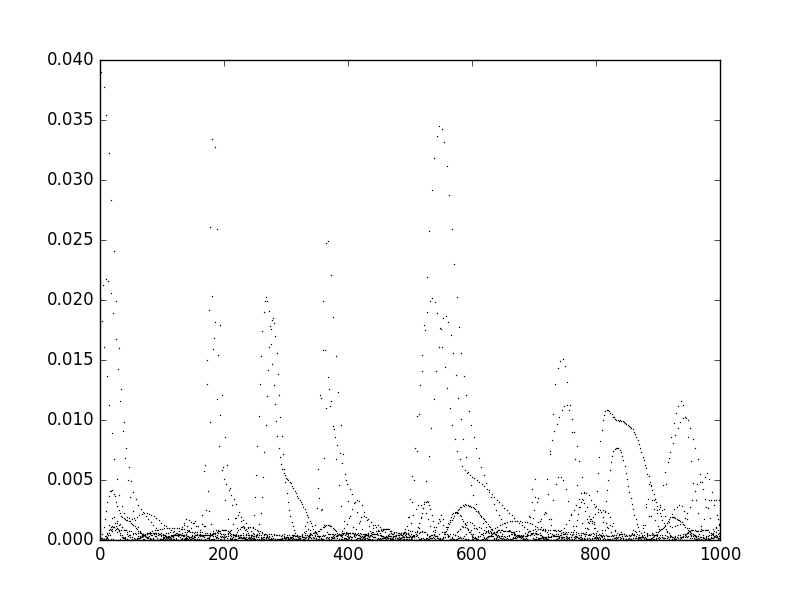
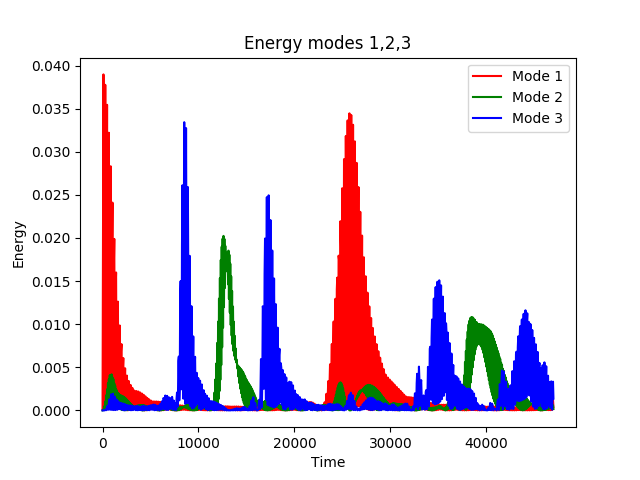
Final

diff --git a/pyplot.py b/pyplot.py
@@ -21,15 +21,15 @@ modes = np.loadtxt(sys.argv[1], delimiter = ',').T
 fig = plt.figure()
 times = np.array(range(0,1000))*(5.0*(64**2.2)/1000.0)
 ax = fig.add_subplot(111)
-style = 'o'
-ms = 0.5
-ax.plot(times,modes[0], c='r', linestyle='None', marker=style, markersize = ms)
-ax.plot(times,modes[1], c='g', linestyle='None', marker=style, markersize = ms)
-ax.plot(times,modes[2], c='b', linestyle='None', marker=style, markersize = ms)
+ms = 0.8
+ax.plot(times,modes[0], c='r', label="Mode 1")
+ax.plot(times,modes[1], c='g', label="Mode 2")
+ax.plot(times,modes[2], c='b', label="Mode 3")
 ax.set_title("Energy modes 1,2,3")
 # Arbitrary units
 ax.set_ylabel("Energy")
 ax.set_xlabel("Time")
+ax.legend()
 #plt.show()
 fig.savefig('Energies.png')
 

diff --git a/FPUT_solve.c b/FPUT_solve.c
@@ -86,9 +86,8 @@ int main( int argc, char** argv){
 	free(v);
 	
 	// Gets time and writes it on file (time) and then closes the file
-	clock_t fin = clock();
-	double fin = omp_get_wtime() - start_time;
-	fprintf(ttime, "%f\n", time_elapsed);
+	double fin = omp_get_wtime() - ini;
+	fprintf(ttime, "%f\n", fin);
 	fclose(ttime);
 
 	return 0;
